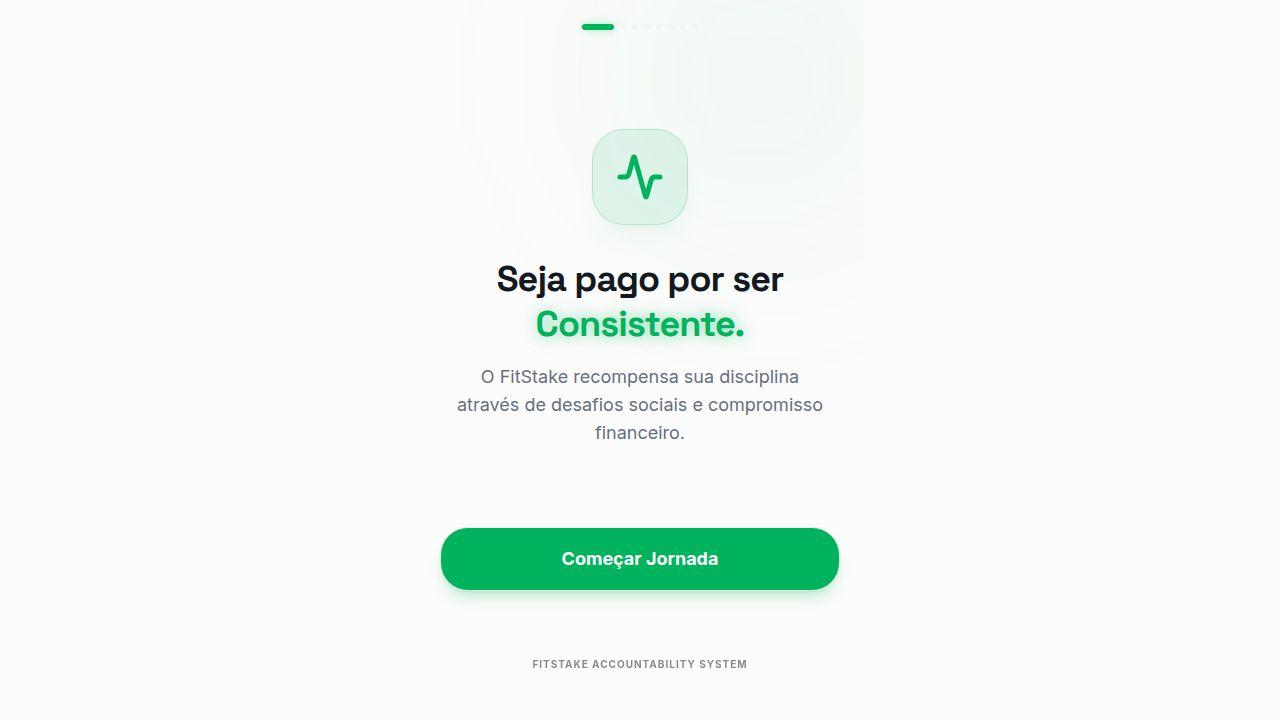
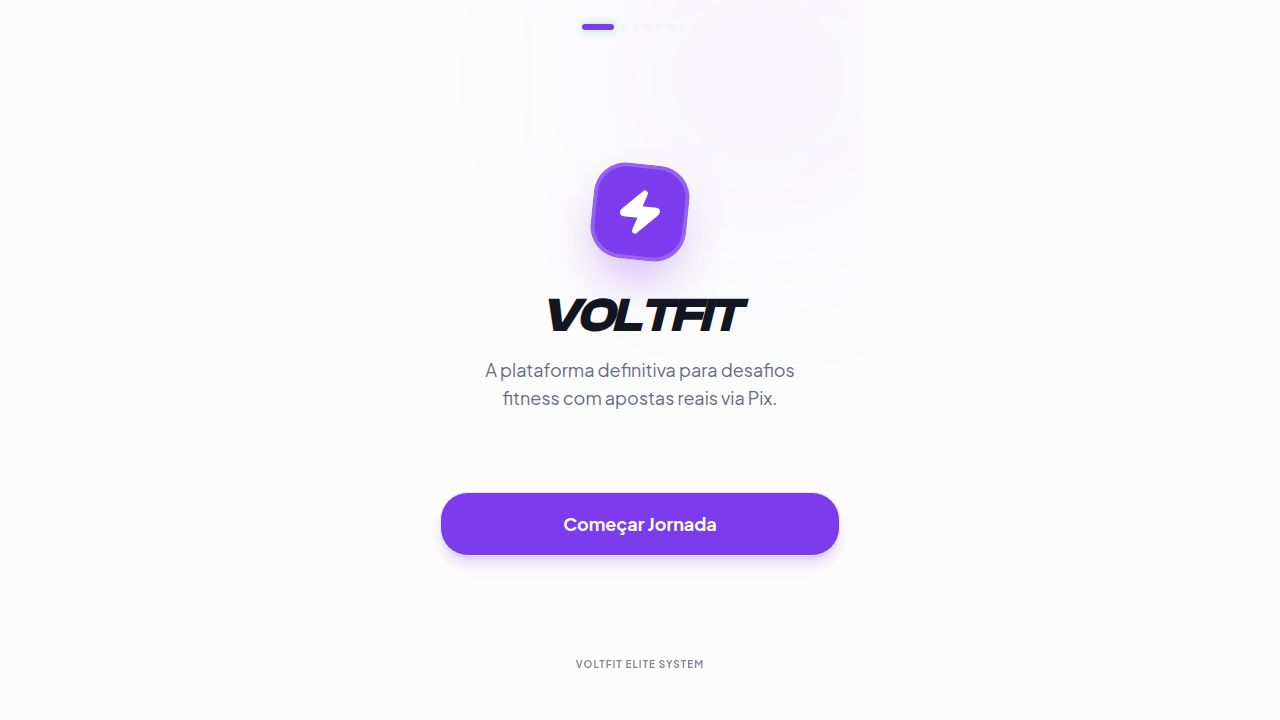
Update brand identity, fonts, and colors for VoltFit
Apply new brand name "VoltFit", update meta tags, change primary and accent colors to electric purple and cyan, and implement new fonts (Clash Display, Plus Jakarta Sans).

Replit-Commit-Author: Agent
Replit-Commit-Session-Id: 8c65da5e-99bb-4dcc-9b77-763e42274ab4
Replit-Commit-Checkpoint-Type: full_checkpoint
Replit-Commit-Event-Id: 1fc32b6c-f74e-4b22-84ad-ec9c373d9ede
Replit-Commit-Screenshot-Url: https://storage.googleapis.com/screenshot-production-us-central1/cc19ad50-2647-4531-8209-9a659b537e5d/8c65da5e-99bb-4dcc-9b77-763e42274ab4/Ocb8oFk
Replit-Helium-Checkpoint-Created: true

diff --git a/client/src/index.css b/client/src/index.css
@@ -4,8 +4,8 @@
 @custom-variant dark (&:is(.dark *));
 
 @theme inline {
-  --font-sans: 'Inter', sans-serif;
-  --font-display: 'Space Grotesk', sans-serif;
+  --font-sans: 'Plus Jakarta Sans', sans-serif;
+  --font-display: 'Clash Display', sans-serif;
 
   --radius-sm: calc(var(--radius) - 4px);
   --radius-md: calc(var(--radius) - 2px);
@@ -40,65 +40,65 @@
 :root {
   /* Light Mode - More Professional & Readable */
   --background: 0 0% 99%;
-  --foreground: 220 20% 10%;
+  --foreground: 230 25% 10%;
 
   --card: 0 0% 100%;
-  --card-foreground: 220 20% 10%;
+  --card-foreground: 230 25% 10%;
 
   --popover: 0 0% 100%;
-  --popover-foreground: 220 20% 10%;
+  --popover-foreground: 230 25% 10%;
 
-  /* Brand Primary: #00FF85 adjusted for light mode contrast (slightly darker/richer) */
-  --primary: 151 100% 35%;
+  /* Brand Primary: Electric Purple #8B5CF6 */
+  --primary: 262 83% 58%;
   --primary-foreground: 0 0% 100%;
 
-  --secondary: 220 15% 94%;
-  --secondary-foreground: 220 20% 10%;
+  --secondary: 230 15% 94%;
+  --secondary-foreground: 230 25% 10%;
 
-  --muted: 220 15% 96%;
-  --muted-foreground: 220 10% 45%;
+  --muted: 230 15% 96%;
+  --muted-foreground: 230 10% 45%;
 
-  /* Brand Highlight: #FF5C00 adjusted for light */
-  --accent: 22 100% 45%;
+  /* Brand Highlight: Cyan #06B6D4 */
+  --accent: 189 94% 43%;
   --accent-foreground: 0 0% 100%;
 
-  --border: 220 15% 92%;
-  --input: 220 15% 92%;
-  --ring: 151 100% 35%;
+  --border: 230 15% 92%;
+  --input: 230 15% 92%;
+  --ring: 262 83% 58%;
 
   --radius: 1.25rem;
 }
 
 .dark {
-  /* Brand Dark Mode: #0D0D0D */
-  --background: 0 0% 5%;
+  /* Brand Dark Mode: Deep Navy #0F172A */
+  --background: 222 47% 7%;
   --foreground: 0 0% 100%;
 
-  --card: 0 0% 10%;
+  --card: 222 47% 10%;
   --card-foreground: 0 0% 100%;
 
-  --popover: 0 0% 10%;
+  --popover: 222 47% 10%;
   --popover-foreground: 0 0% 100%;
 
-  /* Brand Primary: #00FF85 */
-  --primary: 151 100% 50%;
-  --primary-foreground: 151 100% 5%;
+  /* Brand Primary: Electric Purple #A78BFA */
+  --primary: 262 83% 70%;
+  --primary-foreground: 262 83% 10%;
 
-  --secondary: 0 0% 15%;
+  --secondary: 222 47% 15%;
   --secondary-foreground: 0 0% 100%;
 
-  --muted: 0 0% 15%;
-  --muted-foreground: 0 0% 63%;
+  --muted: 222 47% 15%;
+  --muted-foreground: 222 20% 63%;
 
-  --accent: 22 100% 50%;
+  --accent: 189 94% 50%;
   --accent-foreground: 0 0% 100%;
 
   --destructive: 0 84% 60%;
   --destructive-foreground: 0 0% 98%;
 
-  --border: 0 0% 15%;
-  --input: 0 0% 15%;
-  --ring: 151 100% 50%;
+  --border: 222 47% 15%;
+  --input: 222 47% 15%;
+  --ring: 262 83% 70%;
 }
 
 @layer base {

diff --git a/client/index.html b/client/index.html
@@ -4,20 +4,21 @@
     <meta charset="UTF-8" />
     <meta name="viewport" content="width=device-width, initial-scale=1.0, maximum-scale=1, user-scalable=0" />
 
-    <meta property="og:title" content="FitStake - Desafios Esportivos" />
-    <meta property="og:description" content="Participe de desafios esportivos, aposte via Pix e ganhe a premiação." />
+    <meta property="og:title" content="VoltFit - Desafios de Elite" />
+    <meta property="og:description" content="A plataforma definitiva para desafios fitness com apostas reais via Pix." />
     <meta property="og:type" content="website" />
     <meta property="og:image" content="https://replit.com/public/images/opengraph.png" />
     <meta name="twitter:card" content="summary_large_image" />
     <meta name="twitter:site" content="@replit" />
-    <meta name="twitter:title" content="FitStake - Desafios Esportivos" />
-    <meta name="twitter:description" content="Participe de desafios esportivos, aposte via Pix e ganhe a premiação." />
+    <meta name="twitter:title" content="VoltFit - Desafios de Elite" />
+    <meta name="twitter:description" content="A plataforma definitiva para desafios fitness com apostas reais via Pix." />
     <meta name="twitter:image" content="https://replit.com/public/images/opengraph.png" />
 
     <link rel="icon" type="image/png" href="/favicon.png" />
     <link rel="preconnect" href="https://fonts.googleapis.com">
     <link rel="preconnect" href="https://fonts.gstatic.com" crossorigin>
-    <link href="https://fonts.googleapis.com/css2?family=Inter:wght@300;400;500;600;700&family=Space+Grotesk:wght@500;600;700&display=swap" rel="stylesheet">
+    <link href="https://fonts.googleapis.com/css2?family=Plus+Jakarta+Sans:wght@300;400;500;600;700;800&display=swap" rel="stylesheet">
+    <link href="https://api.fontshare.com/v2/css?f[]=clash-display@500,600,700&display=swap" rel="stylesheet">
   </head>
   <body class="bg-background text-foreground antialiased overscroll-none">
     <div id="root"></div>

diff --git a/client/src/pages/onboarding.tsx b/client/src/pages/onboarding.tsx
@@ -29,15 +29,15 @@ const Welcome = ({ onNext }: { onNext: () => void }) => (
     initial={{ opacity: 0, y: 20 }} animate={{ opacity: 1, y: 0 }} exit={{ opacity: 0, x: -20 }}
     className="flex flex-col items-center text-center space-y-8"
   >
-    <div className="w-24 h-24 bg-primary/10 rounded-[2rem] flex items-center justify-center text-primary border border-primary/20 shadow-xl shadow-primary/5">
-      <Activity size={48} strokeWidth={2.5} />
+    <div className="w-24 h-24 bg-primary rounded-[2rem] flex items-center justify-center text-primary-foreground border-4 border-white/20 shadow-2xl shadow-primary/40 rotate-6">
+      <Zap size={48} fill="currentColor" />
     </div>
     <div className="space-y-4">
-      <h1 className="text-4xl font-display font-bold leading-tight">
-        Seja pago por ser <span className="text-primary text-glow">Consistente.</span>
+      <h1 className="text-5xl font-display font-black tracking-tighter italic uppercase">
+        VoltFit
       </h1>
       <p className="text-muted-foreground text-lg px-4">
-        O FitStake recompensa sua disciplina através de desafios sociais e compromisso financeiro.
+        A plataforma definitiva para desafios fitness com apostas reais via Pix.
       </p>
     </div>
     <Button className="w-full h-16 text-lg font-bold rounded-2xl bg-primary text-primary-foreground mt-12 shadow-lg shadow-primary/20" onClick={onNext}>
@@ -293,7 +293,7 @@ export default function Onboarding() {
       {/* Footer Info */}
       {step === 1 && (
         <div className="pb-6 text-center space-y-2 opacity-50 z-10">
-          <p className="text-[10px] font-bold uppercase tracking-widest">FitStake Accountability System</p>
+          <p className="text-[10px] font-bold uppercase tracking-widest">VoltFit Elite System</p>
         </div>
       )}
     </div>

diff --git a/client/src/pages/dashboard.tsx b/client/src/pages/dashboard.tsx
@@ -34,14 +34,13 @@ export default function Dashboard() {
       {/* Header */}
       <header className="flex justify-between items-center pt-4">
         <div className="space-y-1">
-          <p className="text-muted-foreground text-xs font-bold uppercase tracking-widest">Bem-vindo de volta</p>
-          <h1 className="text-3xl font-display font-bold">Alex Costa</h1>
+          <h1 className="text-3xl font-display font-bold italic tracking-tighter text-primary">VOLTFIT</h1>
         </div>
         <Link href="/profile">
           <motion.div 
             whileHover={{ scale: 1.05 }}
             whileTap={{ scale: 0.95 }}
-            className="w-14 h-14 rounded-2xl overflow-hidden border-2 border-primary/20 bg-card flex items-center justify-center font-bold text-xl cursor-pointer shadow-lg shadow-black/10"
+            className="w-14 h-14 rounded-2xl overflow-hidden border-2 border-primary/20 bg-card flex items-center justify-center font-display font-black text-xl cursor-pointer shadow-lg shadow-black/10 text-primary"
           >
             AC
           </motion.div>

diff --git a/client/src/pages/profile.tsx b/client/src/pages/profile.tsx
@@ -30,8 +30,8 @@ export default function Profile() {
   return (
     <div className="pb-32 animate-in fade-in duration-500">
       <header className="px-6 pt-8 pb-4 flex items-center justify-between sticky top-0 bg-background/80 backdrop-blur-md z-50">
-        <h1 className="text-2xl font-display font-bold">Configurações</h1>
-        <Button variant="ghost" size="icon" className="rounded-full hover:bg-muted">
+        <h1 className="text-xl font-display font-bold italic tracking-tighter text-primary">VOLTFIT</h1>
+        <Button variant="ghost" size="icon" className="rounded-full hover:bg-muted text-primary">
           <Settings size={22} />
         </Button>
       </header>
